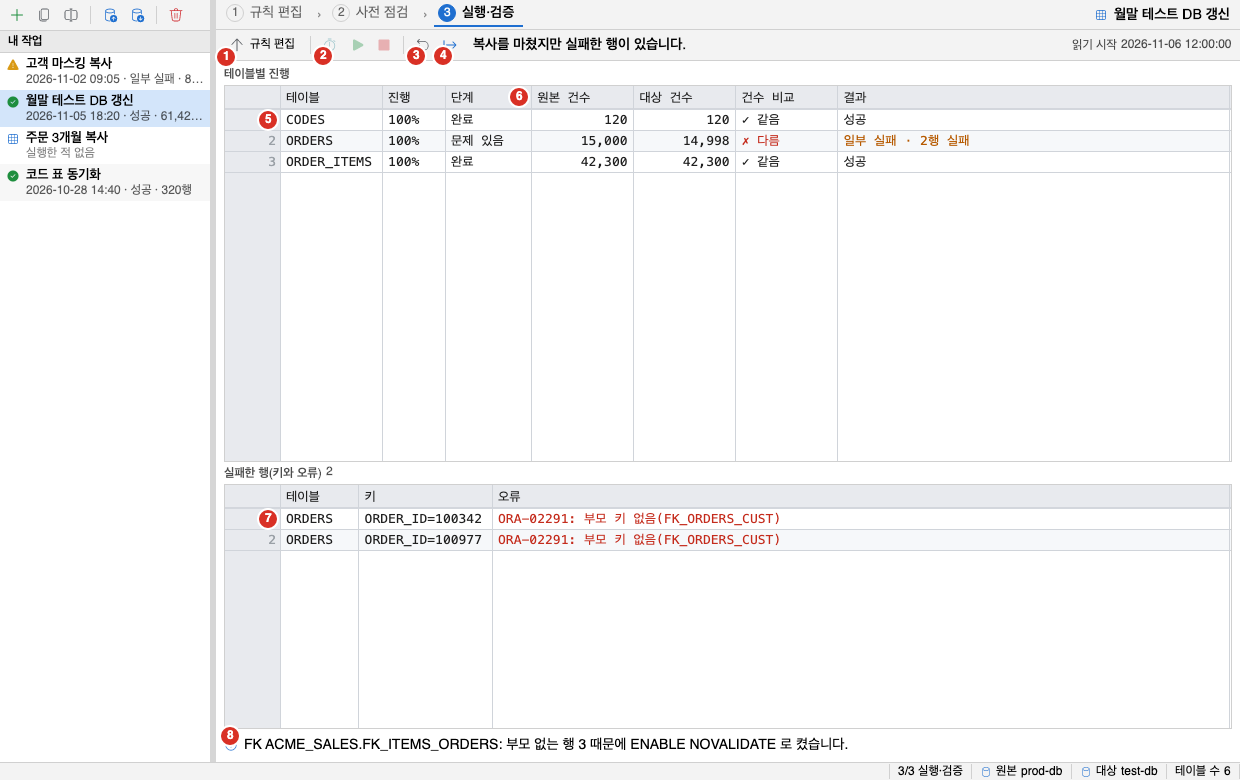
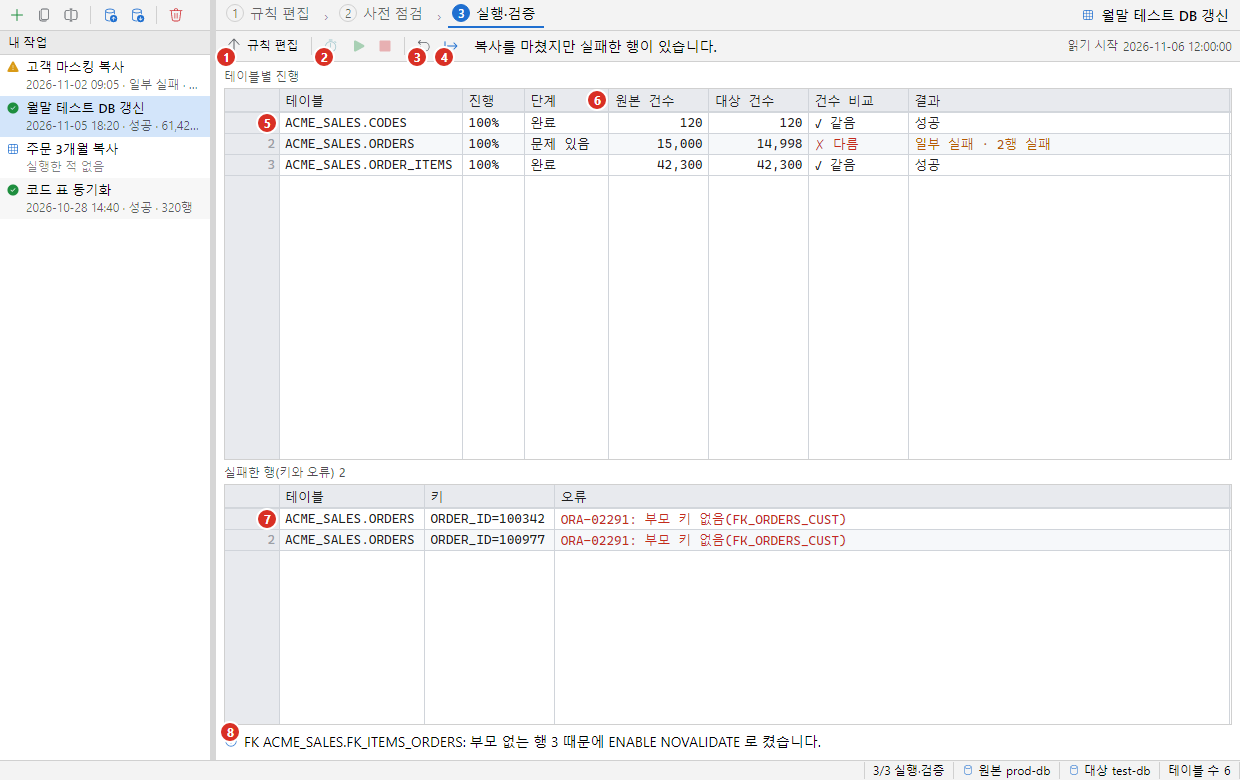
docs(copy): per-table owners and synonyms in the data copy spec and manual
Spec 6.1, 7 and 13 describe the default schemas, per-rule schemas, synonym
resolution when a table is added, rule keys, the new checks, the run
confirmation and the read-only newer job. The manual gains a section and a
capture for other schemas and synonyms; the data copy captures are redrawn
with the schema columns.

Claude-Session: https://claude.ai/code/session_01M9hnLWJzPwtL7LMdmexJPM

diff --git a/tests/Oranda.App.Tests/Manual/ManualCopyScreens.cs b/tests/Oranda.App.Tests/Manual/ManualCopyScreens.cs
@@ -36,7 +36,8 @@ public sealed class ManualCopyScreens : IDisposable
     private static readonly Guid DevId = new("00000000-0000-0000-0000-0000000000a3");
 
     private static readonly ConnectionProfile Prod = new("prod-db", "acme", "db.example.com:1521/prodsvc", Id: ProdId, Environment: ConnectionEnvironment.Production);
-    private static readonly ConnectionProfile Test = new("test-db", "acme_test", "db.example.com:1521/testsvc", Id: TestId, Environment: ConnectionEnvironment.Test);
+    // 대상 접속 계정 = 예시 작업의 기본 대상 계정(ACME_SALES): 다른 계정에 쓰는 규칙만 경고색으로 보인다(묶음 B).
+    private static readonly ConnectionProfile Test = new("test-db", "acme_sales","db.example.com:1521/testsvc", Id: TestId, Environment: ConnectionEnvironment.Test);
 
     /// <summary>PC 시간대와 상관없이 같은 시계 글자로 보이는 시각(화면은 <c>LocalDateTime</c> 으로 그린다).</summary>
     private static DateTimeOffset Local(int year, int month, int day, int hour, int minute, int second = 0) =>
@@ -209,6 +210,55 @@ public sealed class ManualCopyScreens : IDisposable
                 new(Named<ComboBox>(window, "KindBox"), 8),
                 new(VisibleText(window, "마스킹"), 9, -14, 0),
                 new(Named<Button>(window, "ToPrecheckButton"), 10, -12, 0),
+            ]);
+        }
+        finally
+        {
+            window.Close();
+        }
+    });
+
+    // ---- 1단계: 여러 계정·시노님 ------------------------------------------------------------------
+
+    [Fact]
+    public Task Rule_edit_with_other_schemas() => HeadlessHost.Run(async () =>
+    {
+        if (!ManualCapture.Enabled)
+        {
+            return;
+        }
+
+        var h = new DataCopyHarness();
+        var (window, vm, overlay) = await OpenWindowAsync(h);
+        try
+        {
+            // 시노님 ORDER_HIST 로 더한 다른 계정의 표(ACME_ARCH.ORDER_HIST)와 대상 계정을 바꾼 코드 표.
+            var job = ExampleJob(MainJobId, "월말 테스트 DB 갱신", rules:
+            [
+                new TableRule("ORDERS", RuleKind.Period, TargetAction.DeleteRangeInsert) { PeriodColumns = [new PeriodColumn("ORDER_DT", "YYYYMMDD")] },
+                new TableRule("ORDER_HIST", RuleKind.ParentKey, TargetAction.DeleteRangeInsert)
+                {
+                    SourceOwner = "ACME_ARCH",
+                    TargetOwner = "ACME_ARCH",
+                    WrittenAs = "ORDER_HIST",
+                    Parent = new ParentLink("ORDERS", ["ORDER_ID"], ["ORDER_ID"], "FK_HIST_ORDERS") { ParentOwner = "ACME_SALES" },
+                },
+                new TableRule("CODES", RuleKind.All, TargetAction.MergeByPk) { SourceOwner = "ACME_COMMON", TargetOwner = "ACME_SALES" },
+            ]);
+            h.Store.Jobs[MainJobId] = job;
+            await vm.OpenJobAsync(job);
+            vm.Editor.SelectedRule = vm.Editor.Rules[1];
+            Settle(window);
+
+            var grid = Named<MonitorGrid>(window, "RuleGrid");
+            ManualCapture.SaveOverlaid(window, overlay, "data-copy-owners",
+            [
+                new(ByAutomationName<TextBox>(window, "원본 기본 계정"), 1),
+                new(ByAutomationName<TextBox>(window, "대상 기본 계정"), 2),
+                GridCell(grid, 3, -1, 0),
+                GridCell(grid, 4, 1, 2),
+                new(Named<TextBlock>(window, "RuleHeaderText"), 5, -14, 0),
+                new(Named<ComboBox>(window, "TargetOwnerBox"), 6),
             ]);
         }
         finally

diff --git a/site/src/content/docs/transfer/data-copy.md b/site/src/content/docs/transfer/data-copy.md
@@ -23,7 +23,9 @@ description: 한 접속의 표 데이터를 다른 접속으로 복사하는 방
 | 원본에는 쓰지 않음 | 원본 세션은 읽기 전용으로 열고, 복사를 실행하는 동안 읽기 전용 트랜잭션 안에서만 읽습니다. 사전 점검의 조회도 읽기 전용 세션으로 합니다. 실행 정책도 조회가 아닌 문장을 한 번 더 막습니다. |
 | 표를 지우는 일은 개발 접속에서만 | 「테이블 다시 만들기」는 환경이 「개발」인 접속을 대상으로 할 때만 목록에 나옵니다. 「테스트」 접속도 쓸 수 없습니다. 사전 점검과 실행 직전에 한 번 더 확인하고, `DROP` 문장은 대상 접속 이름을 다시 입력해야 실행합니다. 자세한 내용은 [테이블 다시 만들기](#테이블-다시-만들기)에서 설명합니다. |
 | 읽기 전용 접속은 대상이 될 수 없음 | 읽기 전용 접속을 대상으로 고르면 규칙 편집 단계에 「대상 접속이 읽기 전용이라 복사할 수 없습니다. 쓰기가 가능한 접속을 고르세요.」가 나오고 **사전 점검** 단추가 꺼집니다. 대상 목록의 그 항목에도 같은 안내가 붙습니다. 그래도 쓰기 문장은 실행 정책이 한 번 더 거부하며, 이 거부는 미리 확인해도 통과하지 못합니다. |
-| 같은 DB의 같은 소유자는 거부 | 원본과 대상이 같으면 대상 정리가 원본 행을 지울 수 있으므로 시작하지 않습니다. 같은 접속을 같은 소유자로 고르면 규칙 편집에서, 이름이 다른 접속이 같은 DB를 가리키면 사전 점검에서 막습니다. |
+| 읽는 표를 지우지 않음 | 같은 DB에서 어떤 규칙이 지우고 넣을 대상 표(계정·표)가 어떤 규칙이 읽는 원본 표와 같으면 대상 정리가 원본 행을 지울 수 있으므로 시작하지 않습니다. 같은 접속이면 규칙 편집에서, 이름이 다른 접속이 같은 DB를 가리키면 사전 점검에서 막습니다. |
+| 다른 계정에 쓸 때는 한 번 더 물음 | 대상 접속 계정이 아닌 계정의 표에 쓰는 규칙은 규칙 그리드에서 경고색으로 보이고, 사전 점검에 확인 항목이 나오며, **복사 실행**을 누르면 계정별로 지울 표 수를 보이는 확인 창이 나옵니다(기본 단추는 취소). |
+| 새 버전 작업은 실행하지 않음 | 더 새 버전의 Oranda가 만든 작업 파일은 읽기 전용으로 열리고, 사전 점검과 실행도 할 수 없습니다. 이 버전이 모르는 설정(표마다 계정 등)을 빼고 실행하면 엉뚱한 표를 지울 수 있기 때문입니다. |
 | 끈 트리거·FK는 다시 켬 | 복사하는 동안 끈 트리거와 외래키는 끝나면 다시 켭니다. 중지하거나 실패해도 마찬가지입니다. 그래도 켜지 못하면 다음에 그 작업을 열 때 「다시 켜기」가 나옵니다. |
 | 모든 문장은 실행 정책을 거침 | 대상에서 실행하는 모든 문장이 일반 SQL 실행과 같은 정책을 지납니다. 대상에서 지우는 문장과 트리거·FK를 끄는 문장은 사전 점검의 미리 보기에서 정책 판정(「확인 필요」, 「실행할 수 없음」)과 함께 미리 보입니다. 넣는 INSERT·MERGE는 미리 보기에 나오지 않지만 실행할 때 같은 정책을 지납니다. |
 | 행 값은 디스크에 남기지 않음 | 작업 파일에는 비밀번호도 행 값도 없습니다. 실행 기록에는 실패한 행의 키 열 값만 남습니다. 마스킹한 열의 원래 값은 어디에도 남기지 않습니다. |
@@ -33,7 +35,7 @@ description: 한 접속의 표 데이터를 다른 접속으로 복사하는 방
 방법은 세 가지입니다. 어느 방법이든 창은 하나만 열리고, 이미 열려 있으면 그 창이 앞으로 나옵니다. 창은 모달이 아니므로 복사가 도는 동안에도 Oranda의 다른 일을 할 수 있습니다.
 
 - **도구 > 데이터 복사…**를 고릅니다. 명령 팔레트에서 「데이터 복사」를 찾아도 같습니다. 단축키는 없습니다.
-- 스키마 브라우저에서 표를 오른쪽 클릭하고 「데이터 복사에 추가」를 고릅니다. 표만 대상입니다. 열려 있는 작업이 없으면 「새 작업 2026-11-06 10:30」처럼 날짜와 시각이 붙은 이름의 작업을 새로 만들고, 원본 접속이 비어 있으면 그 표를 고른 접속을 원본으로 둡니다. 열려 있는 작업이 있으면 그 작업에 표 규칙을 더합니다.
+- 스키마 브라우저에서 표나 시노님을 오른쪽 클릭하고 「데이터 복사에 추가」를 고릅니다. 시노님은 원본 접속에서 실제 계정·표로 풀어 그 표를 더합니다([다른 계정의 표와 시노님](#다른-계정의-표와-시노님)). 열려 있는 작업이 없으면 「새 작업 2026-11-06 10:30」처럼 날짜와 시각이 붙은 이름의 작업을 새로 만들고, 원본 접속이 비어 있으면 그 표를 고른 접속을 원본으로 둡니다. 열려 있는 작업이 있으면 그 작업에 표 규칙을 더합니다.
 - 창 왼쪽의 「내 작업」 목록에서 저장된 작업을 고릅니다. 작업 목록은 [작업 저장, 다시 열기, 실행 기록](#작업-저장-다시-열기-실행-기록)에서 설명합니다.
 
 ## 1단계: 규칙 편집
@@ -44,12 +46,12 @@ description: 한 접속의 표 데이터를 다른 접속으로 복사하는 방
 
 1. 내 작업 목록. 저장한 작업이 이름순으로 나오고, 이름 앞 아이콘이 마지막 실행 결과(성공, 일부 실패, 실패, 중지)를 보이고, 실행한 적이 없으면 표 아이콘과 「실행한 적 없음」이 나옵니다. 위의 도구 모음은 [내 작업](#내-작업)에서 설명합니다.
 2. 표 이름 칸. 오른쪽에 표 규칙 추가, 제거, 위로, 아래로, 열 정보 읽기 아이콘 단추가 있습니다.
-3. 「원본」 묶음의 접속. 아래에 소유자와 「같은 시점으로 읽기」가 있고, 제목 옆 「읽기 전용」 표지는 원본에 쓰지 않는다는 뜻입니다.
-4. 「대상」 묶음의 접속. 아래에 소유자, 커밋 단위, 「트리거 끄기를 기본으로」가 있습니다.
+3. 「원본」 묶음의 접속. 아래에 기본 계정과 「같은 시점으로 읽기」가 있고, 제목 옆 「읽기 전용」 표지는 원본에 쓰지 않는다는 뜻입니다.
+4. 「대상」 묶음의 접속. 아래에 기본 계정, 커밋 단위, 「트리거 끄기를 기본으로」가 있습니다.
 5. 「범위 · 실행」 묶음의 기간. 아래에 오늘 날짜로 계산한 범위, 배치 크기, 실패 상한이 있습니다.
 6. 커밋 단위
 7. 규칙 그리드
-8. 선택한 규칙을 편집하는 패널. 맨 위가 규칙 종류(이름 옆에 짧은 설명)와 대상 처리입니다. 그림의 기간 규칙에는 기간 열 아래에 「추가 조건(AND)」이 있습니다.
+8. 선택한 규칙을 편집하는 패널. 맨 위가 원본 계정·대상 계정, 그 아래가 규칙 종류(이름 옆에 짧은 설명)와 대상 처리입니다. 그림의 기간 규칙에는 기간 열 아래에 「추가 조건(AND)」이 있습니다.
 9. 마스킹. 아래에 건너뛸 열이 이어집니다.
 10. **사전 점검** 단추. 도구 모음 오른쪽 끝의 파란 단추입니다.
 
@@ -61,7 +63,7 @@ description: 한 접속의 표 데이터를 다른 접속으로 복사하는 방
 
 - 원본 접속: 접속 관리자에 저장한 접속 중에서 고릅니다. 옆의 「읽기 전용」 표지는 원본에 아무것도 쓰지 않는다는 뜻입니다. 운영 접속도 원본으로는 쓸 수 있습니다.
 - 대상 접속: 같은 목록에서 고릅니다. 운영 접속은 회색이고 이름 옆에 「운영 접속 · 대상 불가」가 붙으며, 마우스를 올리면 「운영 접속은 복사 대상으로 쓸 수 없습니다.」가 나옵니다. 읽기 전용 접속은 고를 수 있지만 항목에 「대상 접속이 읽기 전용이라 복사할 수 없습니다. 쓰기가 가능한 접속을 고르세요.」가 붙습니다. 그 접속을 고르면 표 규칙 위에도 같은 문구가 굵게 나오고 **사전 점검** 단추가 꺼집니다.
-- 소유자: 원본과 대상의 표가 있는 스키마입니다. 대상 소유자를 비우면 원본 소유자와 같다고 봅니다. 표를 추가할 때 칸이 비어 있으면 원본 소유자는 그 표의 소유자로, 대상 소유자는 대상 접속의 사용자 이름(대문자)으로 채워집니다. 대상 접속을 아직 고르지 않았으면 대상 소유자도 그 표의 소유자로 채워집니다.
+- 기본 계정: 원본 쪽은 표 이름만 적어 더할 때 먼저 찾는 계정이고, 대상 쪽은 그 계정의 표를 넣을 계정입니다. 대상 기본 계정을 비우면 원본 기본 계정과 같다고 봅니다. 표를 추가할 때 칸이 비어 있으면 원본 기본 계정은 그 표의 계정으로, 대상 기본 계정은 대상 접속의 사용자 이름(대문자)으로 채워집니다. 대상 접속을 아직 고르지 않았으면 대상 기본 계정도 그 표의 계정으로 채워집니다. 기본 계정을 바꾸면(칸을 벗어날 때) 옛 기본 계정을 쓰던 규칙만 새 계정으로 따라 바뀌고, 다른 계정의 규칙은 그대로입니다.
 
 작업 파일에는 접속의 이름과 사용자 이름, 이 PC에서 빨리 찾기 위한 접속 ID 힌트만 저장하고 비밀번호는 저장하지 않습니다. 작업을 열면 이 PC의 접속 목록에서 같은 접속을 다시 찾아 잇습니다. 다음 경우에는 칸을 비우고 이유를 보입니다.
 
@@ -85,9 +87,30 @@ description: 한 접속의 표 데이터를 다른 접속으로 복사하는 방
 
 ### 표 규칙
 
-위쪽 입력칸에 표 이름을 쓰고 표 규칙 추가 단추를 누르거나 `Enter`를 누릅니다. 규칙을 먼저 만든 뒤 원본에서 그 표의 열 정보를 읽습니다. 표가 없거나 원본 세션을 열지 못해 읽지 못하면 알림만 나오고 규칙은 남으므로, 그 규칙을 골라 **열 정보 읽기**를 다시 누르세요. 스키마 브라우저에서 추가한 표도 같은 목록에 들어갑니다. 이미 있는 표를 다시 추가하면 새로 만들지 않고 그 규칙을 선택합니다. 선택한 규칙을 지우려면 제거 단추를 누르거나 그리드에서 `Delete`를 누릅니다. 위로·아래로 단추는 목록에서 보이는 순서만 바꿉니다. 실제 복사 순서는 [복사 순서](#복사-순서)대로 정해집니다.
+위쪽 입력칸에 `표` 또는 `계정.표`를 쓰고 표 규칙 추가 단추를 누르거나 `Enter`를 누릅니다. 원본 세션을 열어 이름을 실제 계정·표로 푼 뒤 규칙을 만들고 그 표의 열 정보를 읽습니다. 원본에서 찾을 수 없는 이름은 더하지 않고 상태 줄에 이유가 나옵니다. 원본 세션을 열지 못했으면(원본 접속을 고르지 않았거나 비밀번호 입력을 취소) 적은 계정, 계정을 적지 않았으면 기본 계정의 표로 더하고 열 정보는 읽지 않으므로, 나중에 그 규칙을 골라 **열 정보 읽기**를 누르세요. 스키마 브라우저에서 추가한 표도 같은 목록에 들어갑니다. 같은 계정의 같은 표를 다시 추가하면 새로 만들지 않고 그 규칙을 선택합니다. 선택한 규칙을 지우려면 제거 단추를 누르거나 그리드에서 `Delete`를 누릅니다. 위로·아래로 단추는 목록에서 보이는 순서만 바꿉니다. 실제 복사 순서는 [복사 순서](#복사-순서)대로 정해집니다.
 
-규칙 그리드는 「테이블」, 「규칙」, 「대상 처리」, 「조건」 네 칸이고, 조회 결과 그리드와 같게 다룹니다. 머리글을 눌러 정렬하고, 머리글을 끌어 열 순서를 바꾸고, 경계를 끌어 너비를 바꾸고, 머리글의 ▾로 열 필터를 겁니다. 오른쪽 클릭 메뉴에는 복사 명령과 함께 테이블 추가, 규칙 제거, 위로, 아래로, 열 정보 읽기가 있습니다. 줄을 고르면(현재 줄에 ▶) 오른쪽 패널에서 그 규칙을 편집합니다. 패널 머리 띠의 **열 정보 읽기**(도구 모음의 같은 단추)는 원본에서 그 표의 열을 읽어 옵니다. 저장된 작업을 열었을 때처럼 열 정보가 없으면 기간 열, 마스킹, 건너뛸 열 목록이 비어 있으므로 먼저 눌러야 합니다. 원본 세션이 이미 열려 있으면 자동으로 읽습니다.
+규칙 그리드는 「원본 계정」, 「테이블」, 「대상 계정」, 「규칙」, 「대상 처리」, 「조건」 여섯 칸이고, 조회 결과 그리드와 같게 다룹니다. 대상 계정이 원본 계정과 같고 대상 접속 계정이면 흐린 글자로, 대상 접속 계정이 아니면 주황 글자와 `(!)`로 보입니다. 머리글을 눌러 정렬하고, 머리글을 끌어 열 순서를 바꾸고, 경계를 끌어 너비를 바꾸고, 머리글의 ▾로 열 필터를 겁니다. 오른쪽 클릭 메뉴에는 복사 명령과 함께 테이블 추가, 규칙 제거, 위로, 아래로, 열 정보 읽기가 있습니다. 줄을 고르면(현재 줄에 ▶) 오른쪽 패널에서 그 규칙을 편집합니다. 패널 머리 띠의 **열 정보 읽기**(도구 모음의 같은 단추)는 원본에서 그 표의 열을 읽어 옵니다. 저장된 작업을 열었을 때처럼 열 정보가 없으면 기간 열, 마스킹, 건너뛸 열 목록이 비어 있으므로 먼저 눌러야 합니다. 원본 세션이 이미 열려 있으면 자동으로 읽습니다.
+
+#### 다른 계정의 표와 시노님
+
+한 작업에 여러 계정의 표를 담을 수 있습니다. 시노님으로 쓰는 표도 시노님 이름으로 더하면 됩니다.
+
+![여러 계정의 표와 시노님으로 더한 표](../../../assets/screens/data-copy-owners.png)
+
+1. 원본 기본 계정. 표 이름만 적으면 이 계정에서 먼저 찾습니다.
+2. 대상 기본 계정. 원본 기본 계정의 표를 넣을 계정입니다.
+3. 「원본 계정」 칸. 규칙마다 실제로 읽는 계정입니다.
+4. 「대상 계정」 칸. 대상 접속 계정이 아닌 계정에 쓰면 주황 글자와 `(!)`로 보입니다.
+5. 상세 칸 머리. `계정.표` 와, 시노님으로 더했으면 「← 시노님 이름」이 작게 붙습니다.
+6. 대상 계정 콤보. 「원본과 같음」, 「기본 대상」, 「접속 계정」 중에서 고르거나 직접 적습니다.
+
+- 이름만 적으면 원본 기본 계정 → 원본 접속 계정 → `PUBLIC` 시노님 순서로 찾습니다. `계정.표`로 적으면 그 계정만 봅니다(`PUBLIC` 시노님은 보지 않습니다).
+- 시노님이면 가리키는 실제 계정·표를 저장합니다. 시노님이 시노님을 가리키면 8단계까지 따라갑니다. 실행할 때는 다시 풀지 않고 저장된 표를 그대로 복사합니다. 나중에 시노님이 다른 표를 가리키게 되면 사전 점검에 「시노님이 가리키는 표 바뀜」 확인 항목이 나옵니다.
+- DB 링크를 거치는 시노님이나 `이름@링크`는 다른 DB의 표이므로 더하지 않습니다. 「…그 DB 를 원본 접속으로 고르세요.」가 나옵니다.
+- 새 표의 대상 계정은, 원본 계정이 원본 기본 계정이면 대상 기본 계정, 다른 계정이면 원본 계정과 같은 이름입니다. 상세 칸의 「대상 계정」에서 표마다 바꿀 수 있습니다. 원본 계정은 바꿀 수 없으므로, 다른 계정의 표를 쓰려면 `계정.표`로 다시 추가하세요.
+- 대상 접속 계정이 아닌 계정에 쓰면 상세 칸에 「접속 계정이 아닌 계정입니다. 그 계정 표의 INSERT·DELETE 권한이 필요합니다.」가 나옵니다. 권한은 사전 점검이 표마다 그 계정 기준으로 봅니다.
+- 부모 키 후보도 `계정.표`로 보입니다. 부모 표가 자식 표와 같은 계정이면 그리드의 「조건」 칸에는 표 이름만, 다른 계정이면 `APP.CUSTOMERS 의 키 · CUST_ID`처럼 계정이 붙습니다.
+- 대상 계정·표가 같은 규칙이 둘이면 넘어가지 않습니다(「대상 표 … 에 쓰는 규칙이 여럿입니다…」).
 
 #### 규칙 종류
 
@@ -177,7 +200,9 @@ description: 한 접속의 표 데이터를 다른 접속으로 복사하는 방
    - 「대상 접속을 고르세요.」
    - 「운영 접속은 복사 대상으로 쓸 수 없습니다.」
    - 「대상 접속이 읽기 전용이라 복사할 수 없습니다. 쓰기가 가능한 접속을 고르세요.」
-   - 「원본과 대상이 같은 접속·같은 소유자입니다. 원본 행이 지워질 수 있어 시작하지 않습니다.」
+   - 「원본과 대상이 같은 접속이고 지울 대상 표가 읽을 원본 표와 같습니다. 원본 행이 지워질 수 있어 시작하지 않습니다. (계정.표) 대상 계정을 바꾸세요.」
+   - 「대상 표 {계정.표} 에 쓰는 규칙이 여럿입니다(…). 대상 계정을 바꾸거나 하나만 남기세요.」
+   - 「새 버전 Oranda 가 만든 작업이라 사전 점검·실행을 할 수 없습니다. Oranda 를 업데이트하세요.」(이때는 단추 자체가 꺼지고 위쪽 띠에도 나옵니다)
    - 「테이블 {표} 의 조건을 쓸 수 없습니다. {이유}」(직접 조건이나 추가 조건의 괄호 짝이 맞지 않거나 주석·`;`이 있을 때)
    - 「복사할 테이블을 하나 이상 추가하세요.」(제외가 아닌 규칙이 하나도 없을 때)
 2. 작업을 저장합니다.
@@ -190,7 +215,7 @@ description: 한 접속의 표 데이터를 다른 접속으로 복사하는 방
 
 ![사전 점검 단계의 데이터 복사 창](../../../assets/screens/data-copy-precheck.png)
 
-1. 점검 결과 그리드. 「수준」, 「테이블」, 「항목」, 「내용」 칸입니다. 「항목」 칸에는 「대상 트리거」, 「자식 행이 지우기를 막음」처럼 점검 이름이 나옵니다.
+1. 점검 결과 그리드. 「수준」, 「테이블」(`계정.표`), 「항목」, 「내용」 칸입니다. 작업 전체에 대한 항목(다른 계정 표에 씀, 같은 시점 읽기 등)은 「테이블」 칸이 비어 있습니다. 「항목」 칸에는 「대상 트리거」, 「자식 행이 지우기를 막음」처럼 점검 이름이 나옵니다.
 2. 연결된 시퀀스 목록. 작업에 연결한 시퀀스가 있을 때만 나옵니다.
 3. 오류 항목. 이 항목 때문에 **복사 실행**이 꺼져 있습니다.
 4. 확인 필요 항목. 점검을 마치면 첫 확인 필요 항목이 골라져 있습니다.
@@ -266,10 +291,11 @@ description: 한 접속의 표 데이터를 다른 접속으로 복사하는 방
 - 점검한 뒤 규칙을 바꿨으면 「점검한 뒤 작업이 바뀌었습니다. 다시 점검하세요.」가 나오고 실행하지 않습니다.
 - 접속 목록을 다시 읽어 대상이 운영 접속이 되었으면 「운영 접속은 복사 대상으로 쓸 수 없습니다. 다시 점검하세요.」가 나오고 실행하지 않습니다.
 - 접속의 환경 라벨, 읽기 전용, 사용자, 주소가 바뀌었거나 접속이 목록에서 사라졌으면 「점검한 뒤 접속 설정이 바뀌었습니다. 다시 점검하세요.」가 나오고 실행하지 않습니다. 두 경우 모두 옛 세션은 닫습니다.
+- 대상 계정이 둘 이상이거나 대상 접속 계정이 아닌 계정에 쓰면 「복사 실행 확인」 창이 나옵니다. 「대상 계정 3곳의 표를 지우고 넣습니다. 계속할까요?」 아래에 `APP2 · 표 1개 · 같은 범위 지우고 넣기 1`처럼 계정마다 지우고 넣을 표 수와 대상 처리가 나옵니다(접속 계정이 아닌 줄은 주황). 기본 단추는 **취소**라 `Enter`를 눌러도 실행하지 않습니다. 취소하면 「복사를 시작하지 않았습니다.」가 나옵니다.
 
 ## 3단계: 실행과 검증
 
-복사를 시작하면 표마다 한 줄씩 진행 상황이 나옵니다.
+복사를 시작하면 표마다 한 줄씩 진행 상황이 나옵니다. 「테이블」 칸은 진행 그리드와 실패한 행 그리드 모두 `계정.표`입니다.
 
 ![복사가 끝난 뒤의 데이터 복사 창](../../../assets/screens/data-copy-run.png)
 

diff --git a/docs/superpowers/specs/2026-11-06-cross-connection-data-copy-design.md b/docs/superpowers/specs/2026-11-06-cross-connection-data-copy-design.md
@@ -67,15 +67,27 @@
 
 | 필드 | 뜻 |
 |---|---|
-| `schemaVersion` | 파일 형식 버전 |
+| `schemaVersion` | 파일 형식 버전. 2 = 규칙마다 원본·대상 계정(묶음 B). 이 앱보다 새 버전 파일은 읽기 전용으로 열고 사전 점검·실행도 막는다 |
 | `id`, `name` | 작업 식별자, 표시 이름 |
 | `source`, `target` | 접속 참조(6.3) |
-| `sourceOwner`, `targetOwner` | 원본·대상 테이블 소유자 스키마. 접속 계정과 다를 수 있다. 기본값은 서로 같은 이름 **[설계]** |
+| `sourceOwner`, `targetOwner` | 「기본 계정」: 표 이름만 적어 더할 때 먼저 찾는 원본 계정과 그 표를 넣을 대상 계정. 규칙의 계정이 비면 이 값을 쓴다. 접속 계정과 다를 수 있다 **[설계]** |
 | `period` | 기간(6.4) |
-| `tables[]` | 테이블 규칙 목록, 실행 순서대로 |
+| `tables[]` | 테이블 규칙 목록, 실행 순서대로. 규칙마다 `sourceOwner`·`targetOwner`(실제 원본·대상 계정)와 표시용 `writtenAs`(시노님으로 더했을 때 적은 이름), 부모 키 규칙의 `parent.parentOwner` 를 둔다. 화면은 저장할 때 규칙마다 계정을 적는다 |
 | `options` | 배치 크기(기본 5,000), 커밋 단위(기본 테이블마다), 트리거 끄기 기본값 |
 | `sequences[]` | 시퀀스 보정 규칙(8.4) |
 | `lastRun` | 마지막 실행 시각·결과·행 수(목록 표시용) |
+
+#### 6.1.1 계정이 다른 표, 시노님
+
+한 작업에 여러 계정의 표를 담을 수 있다(묶음 B). 필드의 정본은 `data-model.md` 2.7 이다.
+
+- **표를 더할 때 푼다**: 표 입력 칸(`표` 또는 `계정.표`)과 스키마 브라우저 「데이터 복사에 추가」(표·시노님 노드)는 원본 세션으로 이름을 풀어 실제 계정·표를 저장한다(`CopyTableInput`). 이름만 적으면 기본 원본 계정 → 원본 접속 계정 → `PUBLIC` 시노님 순서로 찾는다. `계정.표` 는 그 계정만 본다. 시노님은 8단계까지 따라간다.
+- 실행 때는 다시 풀지 않는다. 사전 점검의 DELETE 문장과 실행 문장이 글자까지 같아야 하기 때문이다(13.1). 사전 점검은 `writtenAs` 시노님이 지금 다른 표를 가리키면 확인 필요(`SynonymChanged`)로만 알린다.
+- 풀리지 않는 이름(없음·권한 없음)과 DB 링크를 거치는 시노님은 더하지 않고 이유를 알린다(「다른 DB 의 표입니다. 그 DB 를 원본 접속으로 고르세요」). 원본 세션을 열지 못했으면(원본 없음·비밀번호 취소) 적은 계정, 없으면 기본 계정으로 더한다.
+- **대상 계정 기본값**(결정 B-1 a): 원본 계정이 기본 원본 계정이면 기본 대상 계정, 아니면 원본 계정 이름 그대로. 표마다 바꿀 수 있다.
+- **규칙 키**: 점검 항목·건수 어림·트리거 끄기 결정·진행·표 결과·실패 행·실행 기록의 표 이름은 규칙 키다. 기본 원본 계정의 표는 이름만(`ORDERS`), 다른 계정이면 `APP2.ORDERS` 다. 그래서 계정 하나짜리 예전 작업의 키는 예전 표 이름과 같다. 시퀀스 규칙의 `table` 도 규칙 키이고 `owner` 가 비면 그 표 규칙의 대상 계정이다.
+- **기본 계정 바꾸기**: 화면에서 기본 계정을 바꾸면 옛 기본 계정을 쓰던 규칙만 따라 바뀐다. 다른 계정 규칙은 그대로다.
+- 같은 원본 계정·표를 두 번 더하면 기존 규칙을 고르기만 한다. 대상 계정·표가 같은 규칙이 둘이면 입력 확인과 사전 점검 모두 오류다.
 
 ### 6.2 테이블 규칙
 
@@ -191,9 +203,14 @@
 | 「테이블 다시 만들기」: 대상 세션이 대상 소유자가 아니거나 `CREATE TABLE`(·`CREATE TRIGGER`) 권한이 없음 | 오류(`RecreateNoPrivilege`) |
 | 「테이블 다시 만들기」: 지운 뒤 원본 구조로 만들 수 없음(지원하지 않는 형식 열, `MAX_STRING_SIZE` 한도, 식이 가리키는 객체 없음, 이름 겹침) | 오류(`RecreateBlocked`) |
 | 「테이블 다시 만들기」: 되돌릴 수 없음·휴지통·만들지 않는 FK·원본과 달라지는 것·되살리지 않는 것 | 확인 필요(`RecreateTable`) |
-| 같은 DB 의 같은 소유자(원본 행이 지워질 수 있음) | 오류(`SameSourceTarget`) |
-| 규칙이 어긋나 SQL 생성기가 문장을 만들지 못함 | 표 단위 오류(`RuleInvalid`). 그 표만 알리고 점검은 이어 간다 |
+| 같은 DB 에서 어떤 규칙이 쓰는 대상 표(계정·표)가 어떤 규칙이 읽는 원본 표(부모 키가 읽는 부모 표 포함)와 같음(원본 행이 지워질 수 있음) | 오류(`SameSourceTarget`). 표 단위·규칙 사이까지 본다 |
+| 규칙이 어긋나 SQL 생성기가 문장을 만들지 못함, 대상 계정·표가 같은 규칙이 둘 | 표 단위 오류(`RuleInvalid`). 그 표만 알리고 점검은 이어 간다 |
+| 대상 접속 계정이 아닌 계정의 표를 지우고 넣음 | 확인 필요(`OtherOwnerTargets`, 작업 전체 한 항목). 권한은 표마다 그 계정 기준으로 본다(`SourceNoSelect`·`TargetNoWrite`) |
+| 더할 때 적은 시노님(`writtenAs`)이 지금 다른 표를 가리키거나 풀리지 않음 | 확인 필요(`SynonymChanged`). 작업은 저장된 표를 그대로 복사한다 |
+| 작업 밖 부모 표를 읽는 부모 키 규칙 | 원본·대상 부모 표 SELECT 권한 확인 |
 
+- 점검 결과·진행·실패 행 그리드의 「테이블」 칸은 `계정.표` 로 보인다. SQL 미리 보기의 DELETE·MERGE 에는 대상 계정이 붙는다.
+- **실행 확인**(결정 B-2 a): 대상 계정이 둘 이상이거나 대상 접속 계정이 아닌 계정에 쓰면 「복사 실행」을 누를 때 확인 대화상자를 띄운다. 복사 창이 소유하고, 대상 계정마다 지우고 넣을 표 수와 대상 처리 종류를 보이며, 기본 단추는 「취소」다.
 - 예상 건수는 원본에서 `COUNT(*)` 로 센다. 큰 테이블은 시간이 걸리므로 취소할 수 있어야 한다 **[설계]**.
 - 오른쪽 SQL 미리 보기는 대상에서 실행할 DELETE·`DROP TABLE`(「테이블 다시 만들기」)·끄는 ALTER 문장·시퀀스를 소비하는 `SELECT … NEXTVAL` 문장과 원본 조회 조건이다. 「편집기로 열기」, 「SQL 스크립트로 저장」을 둔다.
 
@@ -299,7 +316,9 @@
 
 - **대량 실행 API**: `IBulkExecutionService.StreamRowsAsync`(원본 읽기, 정책 한 번 평가, 실효 분류가 조회가 아니면 `BulkDeniedException`)와 `ExecuteArrayAsync`(같은 SQL 텍스트에 정책을 한 번 평가하고 `ArrayBindCount` 로 한 번에 실행). 원본 읽기도 모두 `StreamRowsAsync` 를 쓰고 원본에 `IExecutionService` 를 쓰지 않는다. 정책 단계는 `PolicyGate` 로 뽑아 `OracleExecutionService` 와 함께 쓴다. `StatementExecuted` 이벤트는 `ExecuteArrayAsync` 한 번에 하나만 내고, 복사 문장의 이력은 `HistorySource.DataCopy` 와 `ExecutionOptions.SkipHistory` 로 가른다. `BindDataType.TimestampLtz` 를 더했다. LOB 은 끝까지 읽어 같게 넣는다.
 - **정책 확인을 모아 받는 방법**: `ExecutionOptions.PreConfirmed`(호출한 쪽이 이미 확인을 받은 문장 텍스트의 서수 비교 집합). 정책이 `Confirm` 이고 텍스트가 집합에 있으면 `IExecutionInteraction` 을 부르지 않는다. `Deny` 는 그대로 거부한다. `RetypeText` 가 있는 `Confirm`(`DROP`)도 집합에 있으면 통과하는데, 그 전에 화면이 대상 접속 이름을 다시 입력받는다(6.2.3). 미리 보기와 실행기는 `CopyStatements` 로 같은 글자의 문장을 만들어야 집합이 맞는다.
-- **작업 파일 필드 이름**: 계획 T1 의 `CopyJob` 레코드 그대로(camelCase). 형식은 `data-model.md` 2.7, `CopyJobSchema.Current` = 1.
+- **작업 파일 필드 이름**: 계획 T1 의 `CopyJob` 레코드 그대로(camelCase). 형식은 `data-model.md` 2.7, `CopyJobSchema.Current` = 2(묶음 B 에서 1 → 2, 변환기 `CopyJobMigrationV1` 이 규칙마다 계정을 작업 계정으로 채운다. 예전 예제는 `docs/design/examples/v1/`).
+- **새 버전 파일**: `schemaVersion` 이 앱보다 크면 읽기 전용으로 열고 저장뿐 아니라 사전 점검·실행·실패 행 다시 넣기·점검 선택지 적용도 막는다(배너와 상태 줄에 「새 버전 Oranda 가 만든 작업이라 …」). 모르는 필드(표마다 계정)를 버린 채 실행하면 기본 계정의 표를 지울 수 있기 때문이다. 데이터 복사는 v0.1.16 에 없어 이 막기와 버전 2 가 같은 배포에 들어간다.
+- **규칙 그리드**(묶음 B): 「원본 계정 | 테이블 | 대상 계정 | 규칙 | 대상 처리 | 조건」. 대상 계정이 원본과 같으면 흐린 글자, 대상 접속 계정과 다르면 경고색과 `(!)`. 상세 칸 머리는 `계정.표` 와 「← 시노님 X」, 원본 계정은 읽기 전용(바꾸려면 다시 더한다), 대상 계정은 고르거나(원본과 같음 / 기본 대상 / 접속 계정) 적는 콤보다. 위쪽 「소유자」 칸은 「기본 계정」(툴팁)으로 바꿨다. 부모 키 후보에도 계정이 붙는다(`계정.표`).
 - **기간 경계**: 시작 포함·끝 제외. 「최근 1주·1달·3달」은 내일 0시를 끝으로 거꾸로 센다(오늘 포함). 「지난달」은 지난달 1일 0시부터 이번 달 1일 0시 전까지다. 일 단위가 없는 `YYYYMM` 형식의 끝 경계는 끝이 달의 1일 0시면 그 달, 아니면 다음 달이다. 문자열 날짜 형식 토큰은 `YYYY`·`MM`·`DD`·`HH24`·`MI`·`SS` 만 받고 구분자는 `-`·`/`·`:`·`.`·공백만 허용한다(`MON` 은 받지 않는다).
 - **시퀀스 보정**: 사전 점검은 `NEXTVAL` 을 부르지 않고 `LAST_NUMBER` 와 원본 범위의 최대값으로 어림한다. 실행은 `NEXTVAL` 을 한 번 불러 현재 값을 알고, 모자란 수를 `SELECT 시퀀스.NEXTVAL FROM DUAL CONNECT BY LEVEL <= :N` 로 10,000개씩 소비한다. 버전별로 다른 방법은 두지 않았다(18c 미만 분기 없음). 읽기 전용 대상, 적재를 확정하지 못한 표는 건너뛴다.
 - **화면 세부**: 「도구 > 데이터 복사…」 단축키는 없다(메뉴와 명령 팔레트). 아이콘 단추는 기존 `.toolbar` 스타일을 쓴다.
@@ -323,6 +342,10 @@
 | 12 | 시퀀스 후보는 점검 통과 항목의 「작업에 연결」 체크로 사용자가 연결한다. 연결한 시퀀스만 작업 파일 `sequences[]` 에 저장된다. |
 | 13 | 별도 창(데이터 복사)에는 F1 매뉴얼 연결이 없다. 창 안의 포커스 자리를 `FocusScopes` 에 등록하지 않았다. |
 | 14 | 결과에서 뺀 실패 행(적재를 끝내지 못한 표의 행)이 실행 기록에는 남을 수 있다. 「배치마다 커밋」에서 앞 배치를 커밋할 때 이미 `failedRow` 로 썼기 때문이다. 그 표의 `table` 줄 메시지가 이 행들을 덮는 것으로 본다. |
+| 15 | 묶음 B 규칙 키는 설계 초안의 「원본계정.표」가 아니라, 기본 원본 계정의 표는 이름만(`ORDERS`), 다른 계정이면 `APP2.ORDERS` 다. 예전 작업의 키(실행 기록·시퀀스 연결)가 그대로 맞게 하려는 것이다. 그리드에는 계정을 따로 열로 둔다. |
+| 16 | 묶음 B 새 점검 코드 `SynonymChanged`(확인 필요): 더할 때 적은 시노님이 지금 다른 표를 가리킨다. 자동으로 바꾸지 않는다(결정 B-4 a). |
+| 17 | 실행 직전 확인에서 사전 점검 DELETE 문장과 실행 문장이 글자까지 같아야 실행한다(계정이 붙은 문장). |
+| 18 | 시노님 노드를 원본 세션 없이 더하려 하면(원본 접속 없음·비밀번호 취소) 더하지 않는다. 표 입력 칸은 세션이 없으면 적은 계정·기본 계정으로 더한다(설계 3장의 「SourceNoSelect 에 시노님 안내 덧붙임」은 이 경우만 해당). |
 
 ### 13.3 알려진 한계
 
@@ -335,3 +358,5 @@
 - 별도 창(데이터 복사)에는 F1 매뉴얼 연결이 없다. 창 안의 포커스 자리를 `FocusScopes` 에 등록해야 하며, 데이터 내보내기·가져오기 창도 같다(후속).
 - 조회 전용 역할(viewer)에도 「데이터 복사」 메뉴가 보인다. 쓰기는 정책 관문이 거부한다. 메뉴를 숨길지는 정해지지 않았다.
 - 자기 참조 통합 시험은 저장 순서(`ORDER BY` 없음)에 기대고 있다.
+- 표 입력 칸 자동 완성(결정 B-3 b)은 없다(후속). 계정 열 둘이 늘어 좁은 창에서는 규칙 그리드 「조건」 열에 가로 스크롤이 더 자주 생긴다.
+- 실행 확인 대화상자와 대상 계정 콤보는 헤드리스 렌더까지만 확인했다(실제 앱 키보드·포커스는 사용자 확인).
